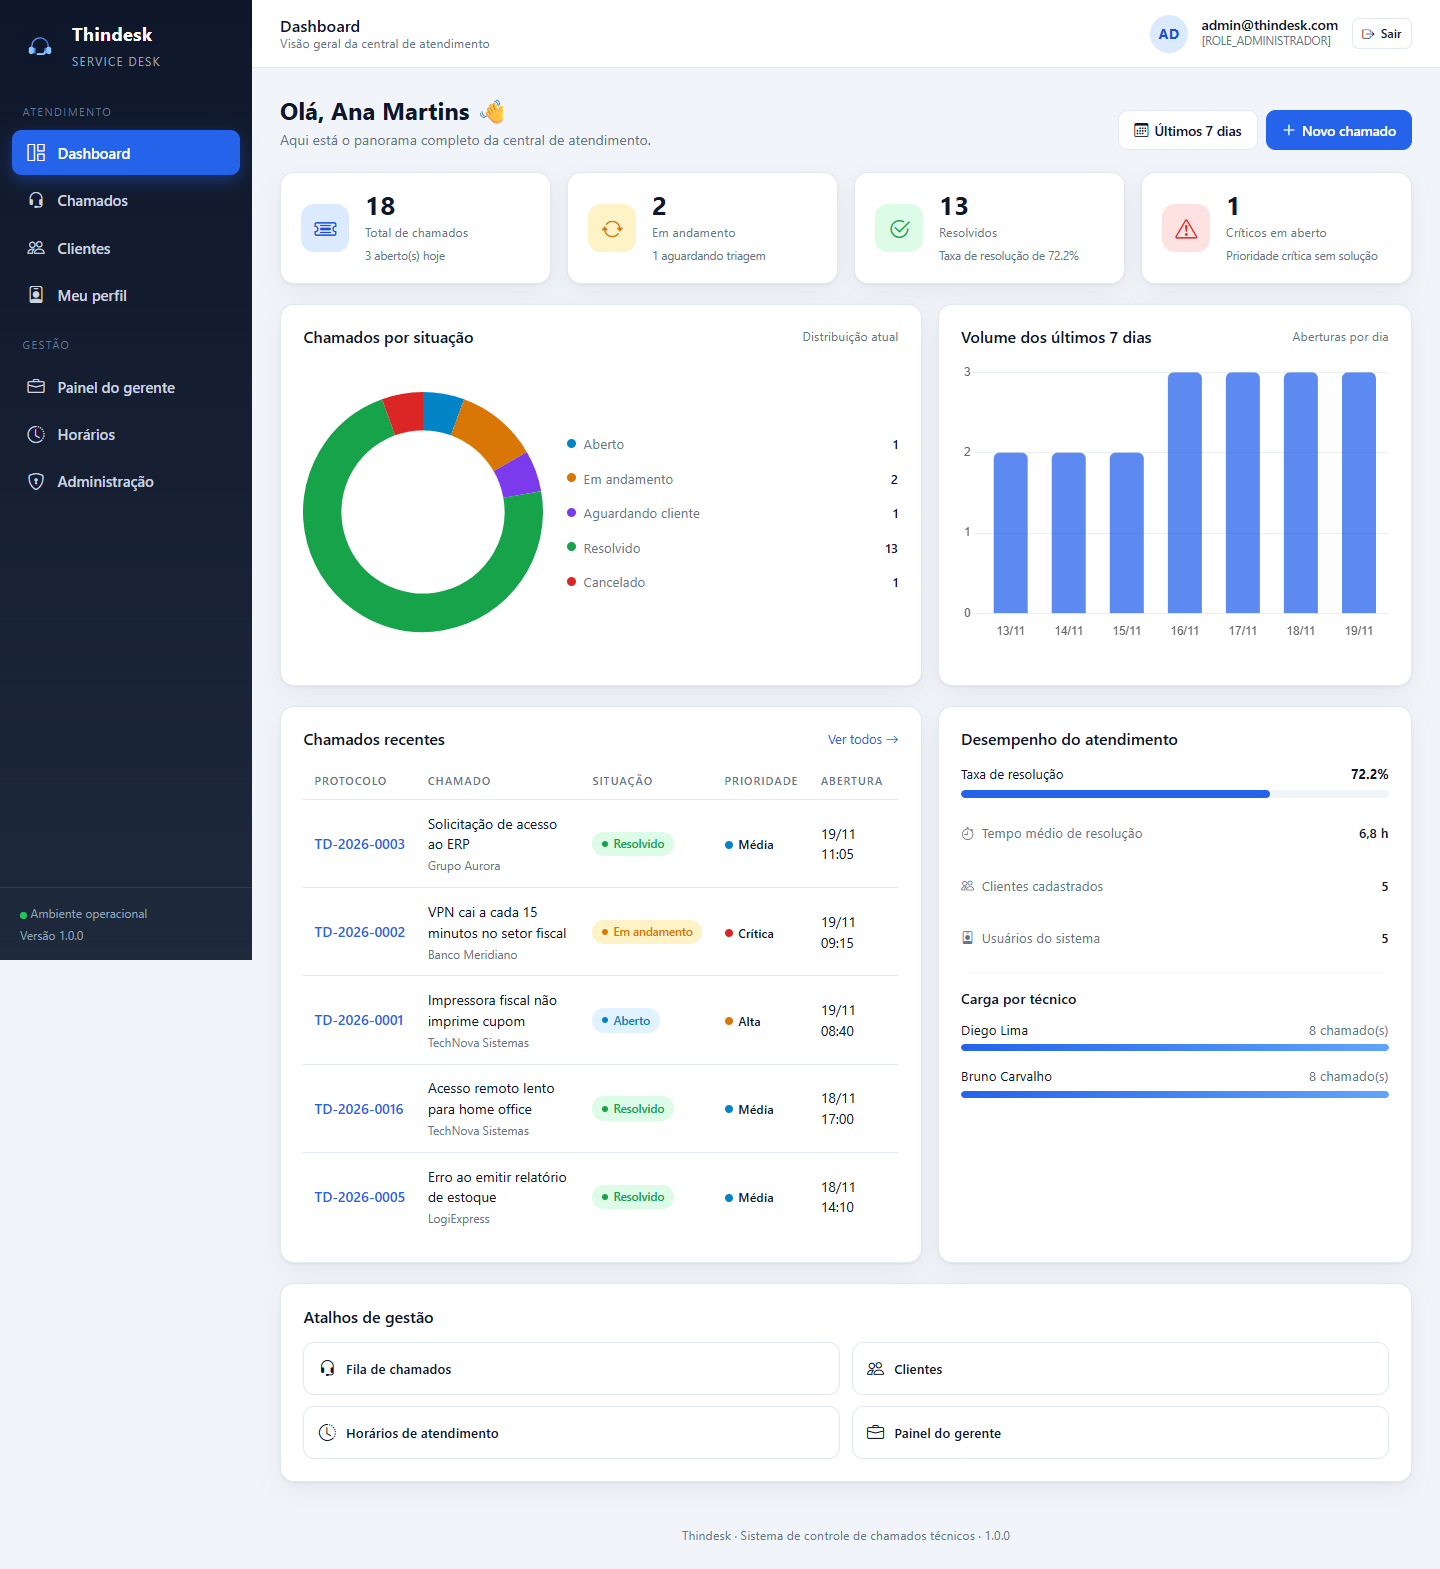
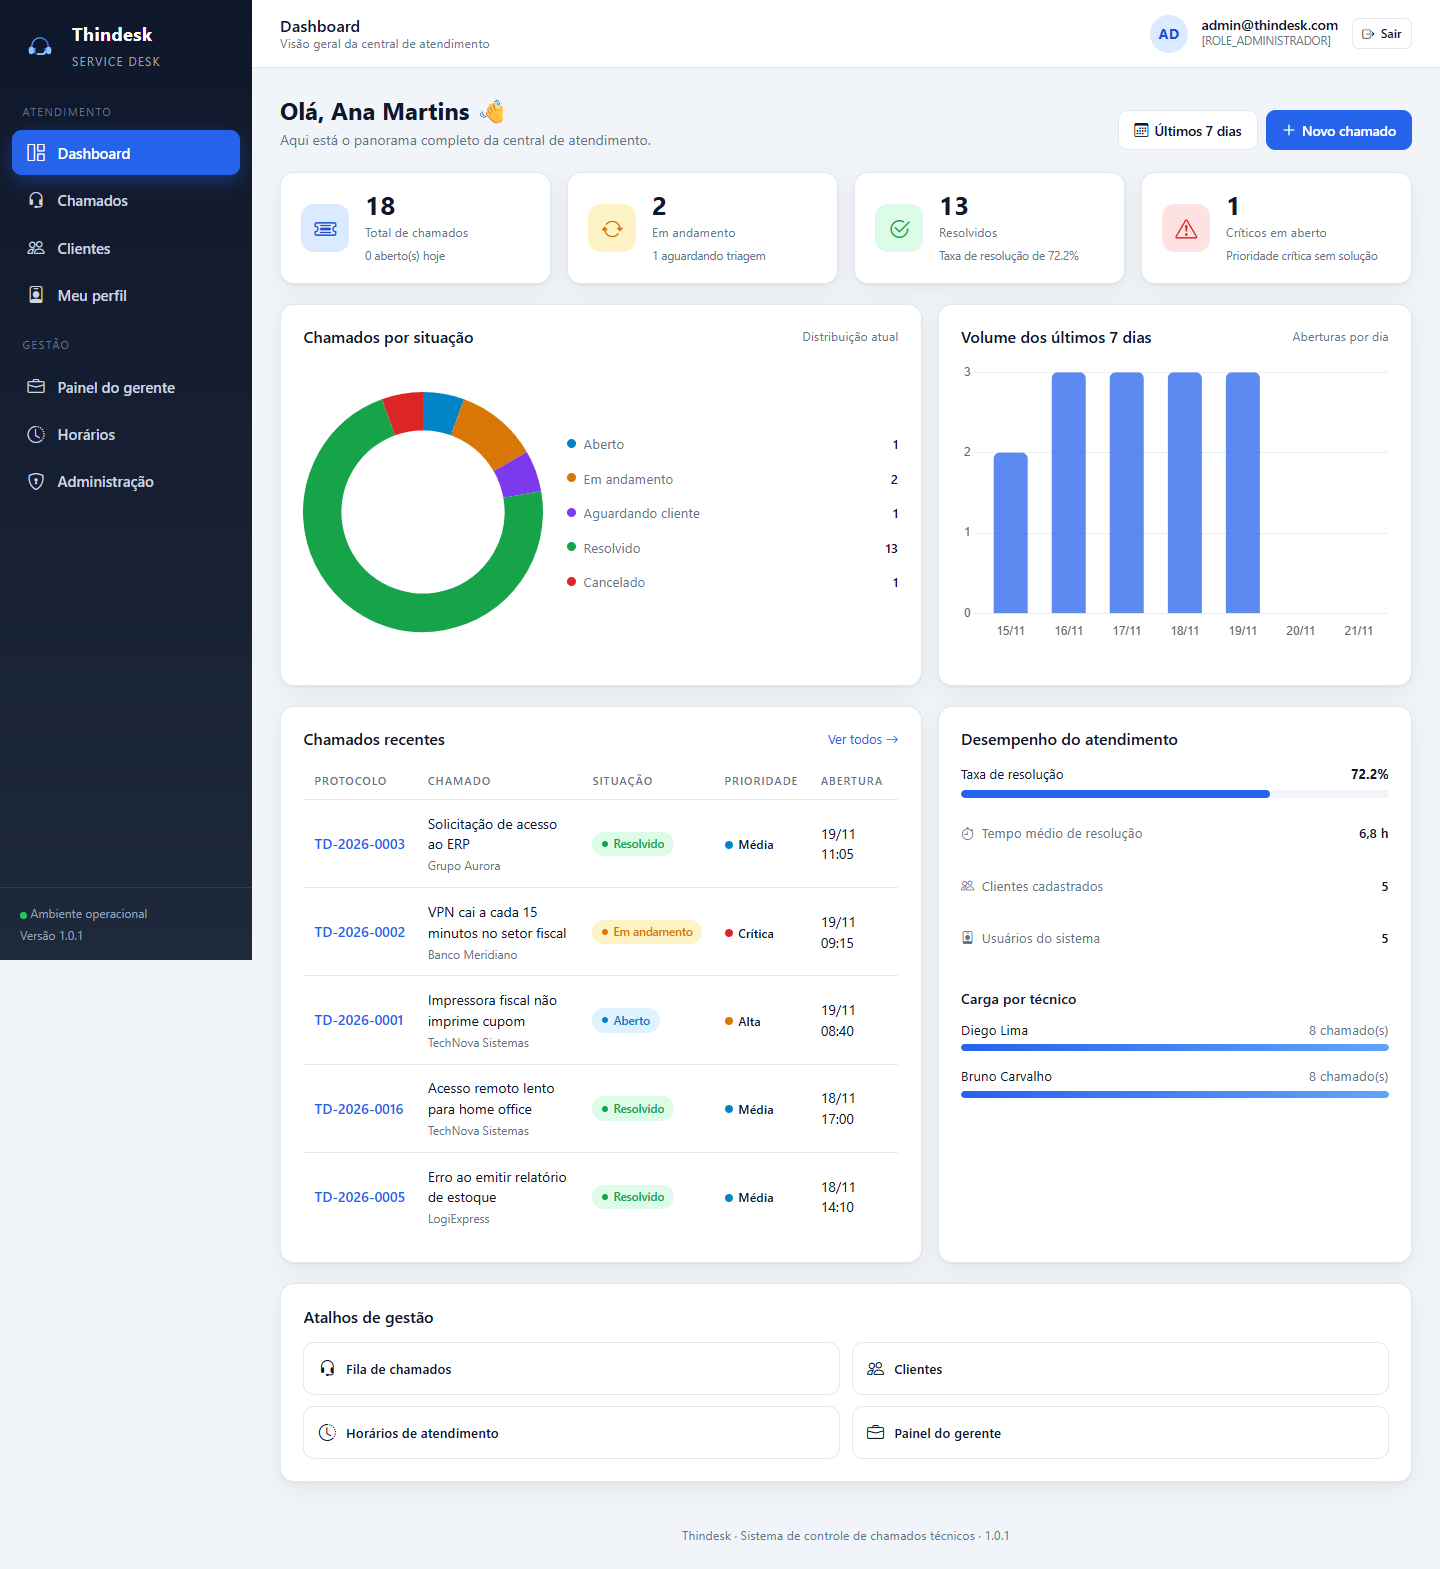
docs: atualiza a URL do deploy e o print do dashboard
Endereco real do servico no Render e captura da versao 1.0.1.

Changed region(s): [[0.875, 0.2186, 0.9688, 0.406], [0.7188, 0.2186, 0.8125, 0.3123]]

diff --git a/README.md b/README.md
@@ -190,7 +190,7 @@ O dashboard apresenta:
 
 | Ambiente | Endereço |
 | --- | --- |
-| Aplicação publicada | `https://thindesk.onrender.com` |
+| Aplicação publicada | `https://thindesk-yeat.onrender.com` |
 | Repositório | https://github.com/Quingu/Thindesk |
 
 > O deploy é feito no **Render** a partir do `Dockerfile` deste repositório, com os dados persistidos no **MongoDB Atlas**.
